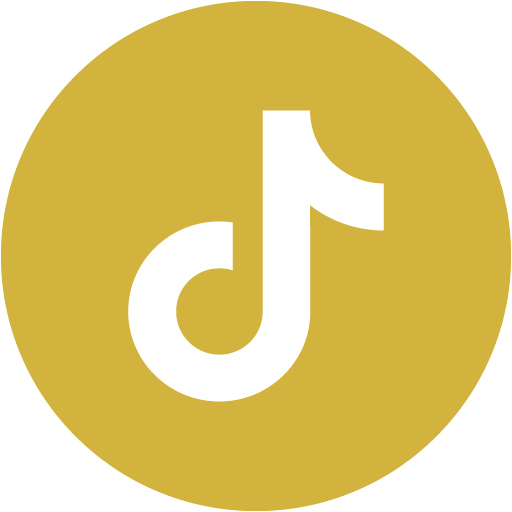
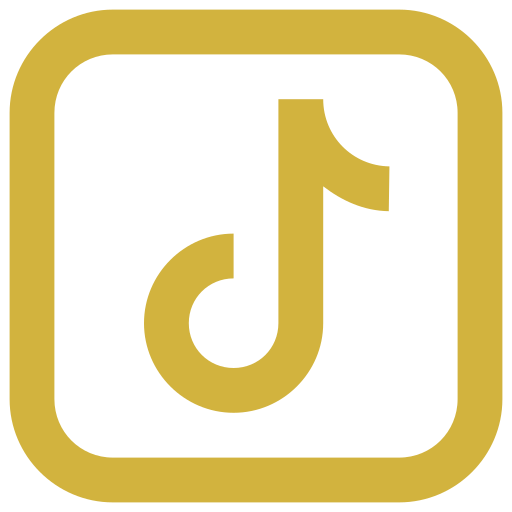
optimized images for socials, temporarily removed portfolio. Changed "Web Developer" to "Streamer"

diff --git a/index.html b/index.html
@@ -9,6 +9,16 @@
     <link rel="preconnect" href="https://fonts.googleapis.com">
     <link rel="preconnect" href="https://fonts.gstatic.com" crossorigin>
     <link href="https://fonts.googleapis.com/css2?family=Rubik:wght@500&display=swap" rel="stylesheet">
+    
+    <!-- Google tag (gtag.js) -->
+<script async src="https://www.googletagmanager.com/gtag/js?id=G-F8V0C0KR1Z"></script>
+<script>
+  window.dataLayer = window.dataLayer || [];
+  function gtag(){dataLayer.push(arguments);}
+  gtag('js', new Date());
+
+  gtag('config', 'G-F8V0C0KR1Z');
+</script>
 </head>
 <body>
     <header>
@@ -25,20 +35,16 @@
             <span>Y</span>
         </h1>
         <p class="subtext"> I guess you can call me Neo :)</p>
-        <p class="description">Web Developer, Content Creator, Video Editor</p>
+        <p class="description">Streamer, Content Creator, Video Editor</p>
     </header>
-    
-    <div id="content">
-        <!-- Content goes here -->
-    </div>
 
     <footer>
         <div class="socials">
-            <a href="https://www.tiktok.com/@neochampy" target="_blank">
-                <img src="Images/1tiktok.png" alt="TikTok">
-            </a>
             <a href="https://www.twitch.tv/neochampy" target="_blank">
                 <img src="Images/1twitch.png" alt="Twitch">
+            </a>
+            <a href="https://www.tiktok.com/@neochampy" target="_blank">
+                <img src="Images/1tiktok.png" alt="TikTok">
             </a>
             <a href="https://www.instagram.com/neochampy" target="_blank">
                 <img src="Images/1instagram.png" alt="Instagram">
@@ -48,13 +54,13 @@
             </a>
             <a href="#" class="social-icon" data-target="portfolio">
                 <img src="Images/crown.png" alt="portfolio">
-                <span class="social-label">oh?</span>
+                <span class="social-label">oh? (Soon)</span>
             </a>
             <a href="https://www.discord.gg/uSyFQZCuvp" target="_blank">
                 <img src="Images/1discord.png" alt="Discord">
             </a>
-            <a href="https://www.github.com/rxnzo" target="_blank">
-                <img src="Images/1github.png" alt="GitHub">
+            <a href="https://www.twitter.com/neochmpy" target="_blank">
+                <img src="Images/1twitter.png" alt="Twitter">
             </a>
             <a href="mailto:neo@champy.tv" target="_blank">
                 <img src="Images/1mail.png" alt="Mail">
@@ -64,10 +70,11 @@
             </a>
             
         </div>
-        <div id="portfolio-content" class="social-content">
-            <p class="portfolio">Portfolio</p>
-            <p class="construction">Under Constuction!!</p>
-        </div>
+        <!--- For when I'm ready to add portfolio
+            <div id="portfolio-content" class="social-content">
+            <p class="portfolio"></p>
+            <p class="construction"></p>
+        </div> --->
     </footer>
     <script src="JS/script.js"></script>
     <script src="JS/portfolio.js"></script>
